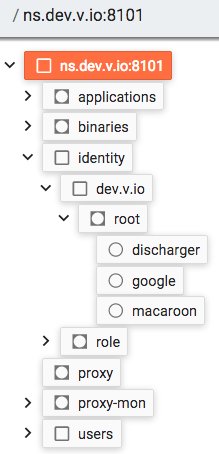
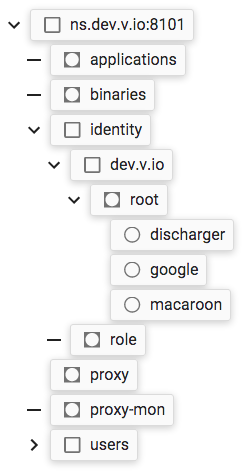
update help files
change for update to tree view UI (dash arrows)
also change headers to sentence case as per standard

diff --git a/src/components/help/content/browse.md b/src/components/help/content/browse.md
@@ -6,7 +6,7 @@ a Vanadium name consists of a list of mounted names separated by slashes.
 All views show a set of *items*, and in all views each item includes a
 mounted name and an icon.
 
-Item Icons
+Item icons
 ----------
 
 If the icon for an item is a square
@@ -31,20 +31,21 @@ In any view, you can select an item to show details for it in the right pane.
 The right pane will contain one or two tabs, depending on whether the selected
 item represents a mount point, has a pointer to a service, or both.
 
-Tree View
+Tree view
 ---------
 
-The Tree View browses a namespace as a hierarchy.
+Tree view browses a namespace as a hierarchy.
 The tree view shows each item on a separate line.
 Each item consists of an arrow, an icon, and a mounted name.
 
 ![Tree View](helpimg/tree.png)
 
 The arrow is used to expand and collapse the children of the item.
-It will only appear if an item can have children,
-but will appear even if the item currently does not have any children
-(or only has children that the current user does not have permission to view).
+Items that cannot have children do not show an arrow.
 Click on a right-pointing arrow to expand its children.
+If the arrow changes to a dash (&mdash;)
+then the item currently does not have any children
+(or has children that the current user does not have permission to view).
 
 Because an item's children may be distributed across multiple devices,
 it may take a moment before the children appear.
@@ -52,15 +53,15 @@ A loading icon is shown circling the arrow while children are still loading.
 
 The icon is discussed above.
 
-Radial View
+Radial view
 --------------
 
-The Radial View browses a namespace as items radiating out from the root,
+Radial view browses a namespace as items radiating out from the root,
 using a circular network graph with nodes and edges.
 The nodes are shown as the icons for each item (square and/or circle).
 The edges are shown as curved lines.
 
-![Radial View](helpimg/radial.png)
+![Radial view](helpimg/radial.png)
 
 You can click on a node to select it.
 You can double-click on the node to expand its children (if any).
@@ -96,12 +97,12 @@ td:nth-child(5) { padding-left: 5px; }
   <tr><td></td><td>Browse Into</td><td>/</td><td>breadcrumbs</td><td>change current root to selection</tr>
 </table>
 
-Grid View
+Grid view
 ---------
 
-The Grid View shows a set of items, typically the children of an item.
+Grid view shows a set of items, typically the children of an item.
 
-![Grid View](helpimg/grid.png)
+![Grid view](helpimg/grid.png)
 
 The blue name (`identity`) is the parent of the items.
 
@@ -111,10 +112,10 @@ If an item does not include an arrow, then it cannot have children.
 
 Click on the arrow for an item to show its children (if any),
 or click on the "browse into" widget
-![Browse Into](helpimg/browseInto.png) in the right pane to display
+![Browse into](helpimg/browseInto.png) in the right pane to display
 the children of the currently selected item.
 You can also use the breadcrumbs to move up and down the hierarchy.
 
-Grid View is also used for Bookmarks and Recent, and to show the results
+Grid view is also used for Bookmarks and Recent, and to show the results
 of a search.
 <p>&nbsp;</p>

diff --git a/src/components/help/content/methods.md b/src/components/help/content/methods.md
@@ -3,7 +3,7 @@ details for that item appear in the right pane.
 For the item named `applications`, the right pane has a header and
 a set of tabs that look like this:
 
-![details header](helpimg/detailsheader.png)
+![Details header](helpimg/detailsheader.png)
 
 On the left side between the header and the tabs is a widget
 ![hide](helpimg/hide.png) that hides the right pane.
@@ -23,7 +23,7 @@ When you browse into an item, the browse into widget changes to
 The `applications` item has two tabs, because it has a mount point and
 it also points to a service.
 
-MountPoint Tab
+MountPoint tab
 --------------
 
 The MountPoint tab shows details about the mount point associated
@@ -42,7 +42,7 @@ and what the name points to.
 See [the Security concepts document](https://v.io/concepts/security.html)
 for information about permissions.
 
-Service Tab
+Service tab
 -----------
 
 The Service tab shows details about the Vanadium service pointed to by this name:
@@ -61,7 +61,7 @@ Next is a set of interfaces that are supported by this service.
 For each interface, the first line shows the name of the interface
 (from the VDL file used to define the service),
 an information widget
-![Information](helpimg/info.png),
+![information](helpimg/info.png),
 and an arrow
 ![show/hide methods](helpimg/right.png)
 to show or hide the methods associated with this interface.
@@ -86,7 +86,7 @@ By default, the methods for this interface are not displayed,
 but you can click the
 ![show methods](helpimg/right.png) icon to show (and even invoke) its methods.
 
-Invoking Methods on Services
+Invoking methods on services
 ----------------------------
 
 Each service has one or more methods associated with it.
@@ -110,7 +110,7 @@ The Output will look like:
 This shows (from the bottom up) that the alarm is initially not armed,
 until after you click on the Arm method.
 
-Invoking Methods with Arguments
+Invoking methods with arguments
 -------------------------------
 
 If a method takes arguments, then the name of the method
@@ -132,7 +132,7 @@ Arguments are remembered between calls, but
 if you think you will call a method more than once with different sets of arguments,
 you can also click the "Save" button. This saves the arguments like this:
 
-![save arguments](helpimg/savedarg.png)
+![Save arguments](helpimg/savedarg.png)
 
 Click the
 ![saved arguments](helpimg/noargs.png) icon to invoke the method with the
@@ -141,7 +141,7 @@ You can create as many sets of saved arguments as you want for each method.
 Also note that saved arguments carry over to other services of the
 same type.
 
-Mount Tables as Services
+Mount tables as services
 ------------------------
 
 A mount table is also a service. The methods for a mount table allow you

diff --git a/src/components/help/content/main.md b/src/components/help/content/main.md
@@ -24,7 +24,7 @@ A *method* can then be called on this object; for example,
 `User/jane/images/vacation/42.jpg.Get()` might return the image,
 or `Delete()` might delete it.
 
-Mount Tables
+Mount tables
 ------------
 
 A *mount table* is a kind of Vanadium server used to find other services.
@@ -36,14 +36,14 @@ Like other Vanadium servers, a mount table has a dispatcher that is
 used to help resolve names. In the above example the name
 `User/jane/images` may have been created in more than one way.
 
-![two mount tables](helpimg/name2.png)
+![Two mount tables](helpimg/name2.png)
 
 In this figure `User` resolves to a mount table that
 contains a mount point named `jane`. This mount point then points
 to another mount table (possibly on another device)
 that contains a mount point named `images`.
 
-![single mount table](helpimg/name1.png)
+![Single mount table](helpimg/name1.png)
 
 Alternatively, in this figure the `User` mount table contains a mount point named
 `jane` that does not have a distributed pointer associated with it.
@@ -68,13 +68,13 @@ In addition, more than one mount point in different mount tables can point to
 the same server (including to mount tables), so the same service can be accessed
 via more than one name.
 
-Rooted and Relative Names
+Rooted and relative names
 -------------------------
 
 Names in Vanadium can either be *rooted* or *relative*.
 A rooted name begins with a slash (/), while a relative name does not.
 
-Rooted Names
+Rooted names
 ------------
 
 The name following the (required) initial slash of a rooted name is the *root*,
@@ -87,7 +87,7 @@ like "ns.dev.v.io:8101" or "localhost:5167",
 3. or a Vanadium endpoint address for a mount table, which will look something like
 "@3@@batman.com:2345@00000000000000000000000000000000@2@3@s@@".
 
-Relative Names
+Relative names
 --------------
 
 A relative name does not begin with a slash.
@@ -108,11 +108,11 @@ In Vanadium, mount tables (and thus names) are by default secure.
 What names are accessible to a user depend on the identity of the user, and
 the services (including mount tables) to which the user has been given access.
 
-Help Topics
+Help topics
 -----------
 
 * [What You See](#/help/views) –
-the different parts of the namespace browser and what they do.
+the visible parts of the namespace browser and what they do.
 
 * [Browse](#/help/browse) – how to browse a namespace,
 including the different views provided by the namespace browser.

diff --git a/src/components/help/content/sample.md b/src/components/help/content/sample.md
@@ -1,9 +1,9 @@
 Sample World is a sample namespace that allows you to experiment
 with the Namespace Browser:
 
-![Sample World](helpimg/sample-world.gif)
+![Sample world radial view](helpimg/sample-world.gif)
 
-You can call browse through the Sample World namespace, and call methods.
+You can browse through the Sample World namespace, and call methods.
 
 The Sample World represents two homes, called "house" and "cottage",
 which both contain home automation to turn lights on and off,
@@ -11,5 +11,5 @@ arm and disarm alarms, play music, water the lawn, check the
 smoke alarms, and feed the pet. The included (robotic) pet tests
 your ability to keep it well fed and happy.
 
-![Sample World](helpimg/sampletree.png)
+![Sample world tree view](helpimg/sampletree.png)
 <p>&nbsp;</p>
